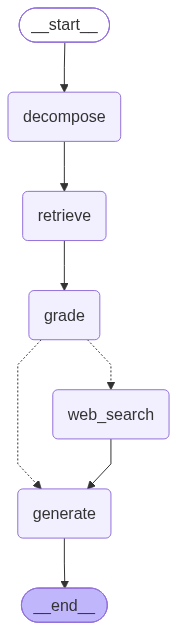
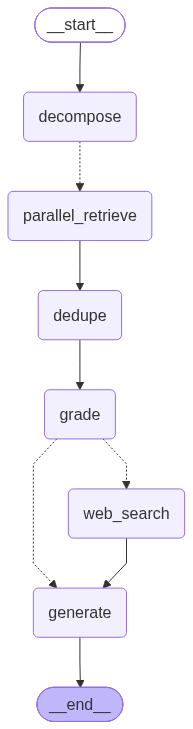
parallel retrieve

diff --git a/tests/test_agent.py b/tests/test_agent.py
@@ -40,23 +40,57 @@ def test_decompose_long_question_calls_llm(monkeypatch):
     assert out["sub_questions"] == ["câu 1", "câu 2"]   # cắt còn max=2
 
 
-# ── retrieve_node (multi-hop merge + dedupe) ─────────────────────────────────
+# ── send_retrieve / parallel_retrieve / dedupe_documents (Send API) ──────────
 
-def test_retrieve_node_merges_and_dedupes(monkeypatch):
+def test_send_retrieve_creates_one_send_per_sub_question():
+    """send_retrieve (router) sinh đúng 1 Send task cho mỗi sub-question."""
+    from langgraph.types import Send
+
+    sends = nodes.send_retrieve({"sub_questions": ["sub1", "sub2", "sub3"]})
+    assert len(sends) == 3
+    assert all(isinstance(s, Send) for s in sends)
+    assert [s.arg["sub_question"] for s in sends] == ["sub1", "sub2", "sub3"]
+
+
+def test_send_retrieve_falls_back_to_question_when_no_sub_questions():
+    sends = nodes.send_retrieve({"question": "câu hỏi gốc"})
+    assert len(sends) == 1
+    assert sends[0].arg["sub_question"] == "câu hỏi gốc"
+
+
+def test_parallel_retrieve_writes_raw_documents(monkeypatch):
+    """Mỗi nhánh Send chỉ thấy `sub_question` riêng, ghi ra `raw_documents` (không phải `documents`)."""
+    c = RetrievedChunk(text="Điều 46 ...", source="a.md", score=0.5)
+    monkeypatch.setattr(nodes, "retrieve", lambda q, top_k=None: [c] if q == "sub1" else [])
+
+    out = nodes.parallel_retrieve({"sub_question": "sub1"})
+    assert out == {"raw_documents": [c]}
+
+
+def test_dedupe_documents_merges_and_dedupes():
+    """dedupe_documents đọc `raw_documents` (đã gộp qua reducer), ghi ra `documents` (không reducer)."""
     c1 = RetrievedChunk(text="Điều 46 ...", source="a.md", score=0.5)
     c2 = RetrievedChunk(text="Điều 46 ...", source="a.md", score=0.9)  # trùng text, score cao hơn
     c3 = RetrievedChunk(text="Điều 111 ...", source="b.md", score=0.7)
 
-    def fake_retrieve(query, top_k=None):
-        return [c1] if query == "sub1" else [c2, c3]
-
-    monkeypatch.setattr(nodes, "retrieve", fake_retrieve)
-
-    out = nodes.retrieve_node({"sub_questions": ["sub1", "sub2"]})
+    # raw_documents mô phỏng kết quả ĐÃ GỘP bởi reducer operator.add từ nhiều nhánh Send.
+    out = nodes.dedupe_documents({"raw_documents": [c1, c3, c2]})
     docs = out["documents"]
     assert len(docs) == 2                      # đã dedupe theo text
     assert docs[0].score == 0.9                # giữ bản score cao hơn, sắp giảm dần
     assert docs[0].text == "Điều 46 ..."
+
+
+def test_dedupe_documents_does_not_accumulate_across_calls():
+    """Bug đã sửa: dedupe_documents phải GHI ĐÈ `documents`, không cộng dồn qua nhiều lần gọi.
+
+    (Trước khi sửa, `documents` có reducer operator.add nên gọi dedupe nhiều lần
+    trong một fan-in sẽ nhân bản dữ liệu — xem ghi chú trong state.py.)
+    """
+    c1 = RetrievedChunk(text="A", source="a.md", score=0.5)
+    out1 = nodes.dedupe_documents({"raw_documents": [c1]})
+    out2 = nodes.dedupe_documents({"raw_documents": [c1]})
+    assert out1 == out2 == {"documents": [c1]}   # không tích luỹ giữa 2 lần gọi độc lập
 
 
 # ── grade_documents + router ─────────────────────────────────────────────────
@@ -138,4 +172,39 @@ def test_full_graph_routes_to_web_search_when_no_relevant_docs(monkeypatch):
 
     assert result["web_search_used"] is True
     assert result["generation"] == "Câu trả lời từ web."
+    graph_mod._build_graph.cache_clear()
+
+
+def test_full_graph_parallel_retrieve_no_loss_no_duplication(monkeypatch):
+    """End-to-end: 3 sub-questions chạy song song qua Send — mỗi chunk phải xuất hiện
+    ĐÚNG MỘT LẦN trong kết quả cuối (guard chống regression bug nhân bản/mất dữ liệu)."""
+    from app.agent import graph as graph_mod
+
+    graph_mod._build_graph.cache_clear()
+    monkeypatch.setattr(nodes.settings, "agent_decompose_min_chars", 5)
+
+    by_sub_question = {
+        "sub A": [RetrievedChunk(text="Chunk A", source="a.md", score=0.9)],
+        "sub B": [RetrievedChunk(text="Chunk B", source="b.md", score=0.8)],
+        "sub C": [RetrievedChunk(text="Chunk C", source="c.md", score=0.7)],
+    }
+    monkeypatch.setattr(nodes, "retrieve", lambda q, top_k=None: by_sub_question.get(q, []))
+
+    class FakeSubQuestions:
+        sub_questions = ["sub A", "sub B", "sub C"]
+
+    class FakeGrade:
+        relevant = True
+        reason = "ok"
+
+    def fake_chat_parsed(messages, schema, params=None):
+        return FakeSubQuestions() if schema is nodes._SubQuestions else FakeGrade()
+
+    monkeypatch.setattr(nodes.completion, "chat_parsed", fake_chat_parsed)
+    monkeypatch.setattr(nodes.completion, "chat", lambda messages, params: "OK")
+
+    result = graph_mod.run_agent("câu hỏi dài đủ mọi thứ")
+
+    texts = sorted(d.text for d in result["documents"])
+    assert texts == ["Chunk A", "Chunk B", "Chunk C"]   # đúng 1 lần mỗi chunk
     graph_mod._build_graph.cache_clear()

diff --git a/app/agent/nodes.py b/app/agent/nodes.py
@@ -10,9 +10,10 @@ LangGraph chỉ lo control flow (node nào chạy sau node nào), không gọi L
 
 from __future__ import annotations
 
+from langgraph.types import Send
 from pydantic import BaseModel, Field
 
-from app.agent.state import GradedChunk, GraphState
+from app.agent.state import GradedChunk, GraphState, RetrieveTask
 from app.agent.tools_web import web_search
 from app.config import settings
 from app.llm import completion
@@ -56,18 +57,49 @@ def decompose_query(state: GraphState) -> dict:
     return {"sub_questions": sub_qs}
 
 
-# ── Retrieve (multi-hop nếu có nhiều sub-question) ───────────────────────────
+# ── Retrieve song song theo sub-question (LangGraph Send API) ───────────────
+#
+# Fan-out: send_retrieve là một CONDITIONAL EDGE (không phải node) — trả về list
+# Send(...), mỗi phần tử là một "task" gọi node parallel_retrieve với state RIÊNG
+# {"sub_question": sq}. LangGraph chạy các task này song song, mỗi task chỉ thấy
+# đúng payload của Send, không thấy toàn bộ GraphState.
+#
+# Fan-in: mọi nhánh song song đều trả {"raw_documents": [...]}. Vì
+# GraphState.raw_documents khai báo Annotated[list, operator.add] (xem state.py),
+# LangGraph NỐI list của các nhánh lại (a + b + c) khi hội tụ — không ghi đè. Nếu
+# thiếu reducer này, chỉ nhánh "thắng" cuối cùng còn lại → mất dữ liệu, đây là lỗi
+# phổ biến nhất khi mới dùng Send.
+#
+# dedupe_documents chạy SAU khi hội tụ, đọc `raw_documents` (đã gộp bởi reducer)
+# và ghi ra `documents` (field KHÔNG có reducer, ghi đè bình thường). Bắt buộc phải
+# tách 2 field: nếu dedupe ghi thẳng vào `documents` mà field đó cũng có reducer
+# operator.add, kết quả đã dedupe sẽ bị CỘNG THÊM vào list cũ mỗi lần chạy → nhân
+# bản dữ liệu, thay vì thay thế.
 
-def retrieve_node(state: GraphState) -> dict:
-    """Retrieve cho từng sub-question rồi gộp + khử trùng (giữ thứ tự, ưu tiên score cao)."""
+def send_retrieve(state: GraphState) -> list[Send]:
+    """Router cho add_conditional_edges: sinh 1 Send task cho mỗi sub-question."""
     sub_questions = state.get("sub_questions") or [state["question"]]
+    return [
+        Send("parallel_retrieve", RetrieveTask(sub_question=sq)) for sq in sub_questions
+    ]
 
+
+def parallel_retrieve(state: GraphState) -> dict:
+    """Chạy trong một nhánh Send — state ở đây CHỈ có field `sub_question`."""
+    sub_question = state.get("sub_question", "")
+    return {"raw_documents": retrieve(sub_question)}
+
+
+def dedupe_documents(state: GraphState) -> dict:
+    """Sau khi các nhánh song song hội tụ: khử trùng theo text, giữ bản score cao nhất.
+
+    Đọc từ `raw_documents` (đã gộp qua reducer), GHI RA `documents` (không reducer).
+    """
     seen: dict[str, RetrievedChunk] = {}
-    for sub_q in sub_questions:
-        for chunk in retrieve(sub_q):
-            existing = seen.get(chunk.text)
-            if existing is None or chunk.score > existing.score:
-                seen[chunk.text] = chunk
+    for chunk in state.get("raw_documents", []):
+        existing = seen.get(chunk.text)
+        if existing is None or chunk.score > existing.score:
+            seen[chunk.text] = chunk
 
     documents = sorted(seen.values(), key=lambda c: c.score, reverse=True)
     return {"documents": documents}

diff --git a/app/agent/graph.py b/app/agent/graph.py
@@ -3,9 +3,13 @@
 LangGraph CHỈ orchestrate control flow. Mọi lời gọi thực tế (LLM, retriever, web
 search) đều xuyên qua native SDK đã xây ở app/llm, app/retrieval, app/agent/tools_web.
 
-Luồng:
-    decompose_query → retrieve → grade_documents ─┬─(đủ relevant)→ generate → END
-                                                    └─(thiếu)→ web_search → generate → END
+Luồng (retrieve chạy SONG SONG cho từng sub-question qua LangGraph Send API):
+    decompose_query
+        → send_retrieve (router: fan-out 1 Send/sub-question)
+        → parallel_retrieve (N nhánh chạy song song)
+        → dedupe_documents (fan-in: gộp + khử trùng sau khi hội tụ)
+        → grade_documents ─┬─(đủ relevant)→ generate → END
+                            └─(thiếu)→ web_search → generate → END
 
 So với RAG cố định (Buổi 5): thêm khả năng "quyết định" — có chunk đủ tốt không,
 nếu không thì tự tìm thêm trên web trước khi generate.
@@ -17,10 +21,12 @@ from functools import lru_cache
 
 from app.agent.nodes import (
     decompose_query,
+    dedupe_documents,
     generate,
     grade_documents,
-    retrieve_node,
+    parallel_retrieve,
     route_after_grading,
+    send_retrieve,
     web_search_node,
 )
 from app.agent.state import GraphState
@@ -33,14 +39,19 @@ def _build_graph():
     workflow = StateGraph(GraphState)
 
     workflow.add_node("decompose", decompose_query)
-    workflow.add_node("retrieve", retrieve_node)
+    workflow.add_node("parallel_retrieve", parallel_retrieve)
+    workflow.add_node("dedupe", dedupe_documents)
     workflow.add_node("grade", grade_documents)
     workflow.add_node("web_search", web_search_node)
     workflow.add_node("generate", generate)
 
     workflow.set_entry_point("decompose")
-    workflow.add_edge("decompose", "retrieve")
-    workflow.add_edge("retrieve", "grade")
+    # Conditional edge với router trả về list[Send]: LangGraph fan-out sang
+    # node "parallel_retrieve" một lần cho mỗi Send, chạy song song.
+    workflow.add_conditional_edges("decompose", send_retrieve, ["parallel_retrieve"])
+    # Mọi nhánh song song hội tụ về "dedupe" (fan-in) trước khi grade.
+    workflow.add_edge("parallel_retrieve", "dedupe")
+    workflow.add_edge("dedupe", "grade")
     workflow.add_conditional_edges(
         "grade",
         route_after_grading,